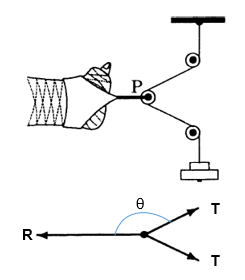
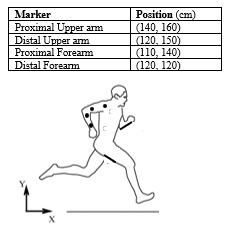
Sync updated problem images and 3D vector parameters

diff --git a/app.js b/app.js
@@ -8,76 +8,72 @@ const PROBLEMS = [
   {
     id: 1,
     title: "Problem 1: 3D Force & Acceleration on a Ball",
-    description: "Determine the total acceleration on a ball (m = 0.05 kg) subjected to three forces (N) as shown in the figure below.",
+    description: "Determine the total acceleration on a ball (m = 0.05 kg) subjected to three forces (N) given by vector components: F₁ = -5î - 30k̂, F₂ = 25î - 10ĵ + 20k̂, and F₃ = -10î + 15ĵ.",
     imageSrc: "images/problem1.png",
     params: [
       { id: "m", label: "Mass (m)", min: 0.01, max: 0.50, step: 0.01, defaultVal: 0.05, unit: "kg", color: "#e2e8f0" },
-      { id: "f1", label: "Force F₁ (Downward)", min: 0.1, max: 5.0, step: 0.1, defaultVal: 0.5, unit: "N", color: "#f43f5e" },
-      { id: "f2", label: "Force F₂ (Up-Right)", min: 0.1, max: 5.0, step: 0.1, defaultVal: 1.2, unit: "N", color: "#38bdf8" },
-      { id: "theta2", label: "F₂ Angle (θ₂)", min: 0, max: 90, step: 1, defaultVal: 30, unit: "°", color: "#38bdf8" },
-      { id: "f3", label: "Force F₃ (Leftward)", min: 0.1, max: 5.0, step: 0.1, defaultVal: 0.8, unit: "N", color: "#f59e0b" }
+      { id: "f1x", label: "F₁ (x component)", min: -30, max: 30, step: 1, defaultVal: -5, unit: "N", color: "#f43f5e" },
+      { id: "f1z", label: "F₁ (z component)", min: -50, max: 50, step: 1, defaultVal: -30, unit: "N", color: "#f43f5e" },
+      { id: "f2x", label: "F₂ (x component)", min: -50, max: 50, step: 1, defaultVal: 25, unit: "N", color: "#38bdf8" },
+      { id: "f2y", label: "F₂ (y component)", min: -50, max: 50, step: 1, defaultVal: -10, unit: "N", color: "#38bdf8" },
+      { id: "f2z", label: "F₂ (z component)", min: -50, max: 50, step: 1, defaultVal: 20, unit: "N", color: "#38bdf8" },
+      { id: "f3x", label: "F₃ (x component)", min: -30, max: 30, step: 1, defaultVal: -10, unit: "N", color: "#f59e0b" },
+      { id: "f3y", label: "F₃ (y component)", min: -30, max: 30, step: 1, defaultVal: 15, unit: "N", color: "#f59e0b" }
     ],
     hintHtml: `
-      <p>💡 <strong>Think of this problem in 3 easy steps:</strong></p>
+      <p>💡 <strong>3D Vector Addition Strategy:</strong></p>
       <div class="beginner-step-box">
-        <strong>Step 1 — Separate forces into Horizontal (y) and Vertical (z) directions:</strong>
+        <strong>Step 1 — Add vector components along each axis (î, ĵ, k̂):</strong>
         <ul style="margin-left: 18px; margin-top: 4px;">
-          <li><strong>F₁</strong> pulls straight <em>down</em> (negative Z axis).</li>
-          <li><strong>F₃</strong> pulls straight <em>left</em> (negative Y axis).</li>
-          <li><strong>F₂</strong> pulls diagonally up and to the right! Break F₂ into a rightward pull (F₂ × cos θ₂) and an upward pull (F₂ × sin θ₂).</li>
+          <li><strong>X-axis (î)</strong>: Fnet_x = F₁x + F₂x + F₃x</li>
+          <li><strong>Y-axis (ĵ)</strong>: Fnet_y = F₁y + F₂y + F₃y</li>
+          <li><strong>Z-axis (k̂)</strong>: Fnet_z = F₁z + F₂z + F₃z</li>
         </ul>
       </div>
       <div class="beginner-step-box">
-        <strong>Step 2 — Combine the total pulls in each direction:</strong>
+        <strong>Step 2 — Calculate total Net Force magnitude:</strong>
         <ul style="margin-left: 18px; margin-top: 4px;">
-          <li>Net Horizontal Pull = (Rightward F₂ pull) − (Leftward F₃ pull)</li>
-          <li>Net Vertical Pull = (Upward F₂ pull) − (Downward F₁ pull)</li>
+          <li>Fnet = √(Fnet_x² + Fnet_y² + Fnet_z²)</li>
         </ul>
       </div>
       <div class="beginner-step-box">
-        <strong>Step 3 — Find total acceleration using Newton's 2nd Law (a = F / m):</strong>
+        <strong>Step 3 — Compute Acceleration (a = Fnet / m):</strong>
         <ul style="margin-left: 18px; margin-top: 4px;">
-          <li>Total Net Force = √(Horizontal Pull² + Vertical Pull²)</li>
-          <li>Acceleration (a) = Total Net Force ÷ Ball Mass (m)</li>
+          <li>a = Net Force ÷ Ball Mass (m)</li>
         </ul>
       </div>
     `,
     computeSolution: (vals) => {
-      const thetaRad = (vals.theta2 * Math.PI) / 180;
-      const f2y = vals.f2 * Math.cos(thetaRad);
-      const f2z = vals.f2 * Math.sin(thetaRad);
+      const Fnet_x = vals.f1x + vals.f2x + vals.f3x;
+      const Fnet_y = vals.f2y + vals.f3y;
+      const Fnet_z = vals.f1z + vals.f2z;
       
-      const Fnet_y = f2y - vals.f3;
-      const Fnet_z = f2z - vals.f1;
-      
-      const Fnet_mag = Math.sqrt(Fnet_y * Fnet_y + Fnet_z * Fnet_z);
+      const Fnet_mag = Math.sqrt(Fnet_x * Fnet_x + Fnet_y * Fnet_y + Fnet_z * Fnet_z);
       const accel_mag = Fnet_mag / vals.m;
-      const angle_deg = (Math.atan2(Fnet_z, Fnet_y) * 180 / Math.PI + 360) % 360;
 
       const stepsHtml = `
         <div class="math-step">
-          <strong>1. Force Components Breakdown:</strong><br>
-          • F₁ = (0.00, -${vals.f1.toFixed(2)}) N<br>
-          • F₂ = (${vals.f2.toFixed(2)} × cos ${vals.theta2}°, ${vals.f2.toFixed(2)} × sin ${vals.theta2}°) = (${f2y.toFixed(2)}, ${f2z.toFixed(2)}) N<br>
-          • F₃ = (-${vals.f3.toFixed(2)}, 0.00) N
+          <strong>1. Vector Component Summation:</strong><br>
+          • Fnet_x = (${vals.f1x}) + (${vals.f2x}) + (${vals.f3x}) = <strong>${Fnet_x.toFixed(2)} N î</strong><br>
+          • Fnet_y = (0) + (${vals.f2y}) + (${vals.f3y}) = <strong>${Fnet_y.toFixed(2)} N ĵ</strong><br>
+          • Fnet_z = (${vals.f1z}) + (${vals.f2z}) + (0) = <strong>${Fnet_z.toFixed(2)} N k̂</strong><br>
+          • Fnet Vector = (${Fnet_x.toFixed(2)}î + ${Fnet_y.toFixed(2)}ĵ + ${Fnet_z.toFixed(2)}k̂) N
         </div>
         <div class="math-step">
-          <strong>2. Net Force Components (Fnet):</strong><br>
-          • Fnet_y = ${f2y.toFixed(2)} - ${vals.f3.toFixed(2)} = <strong>${Fnet_y.toFixed(2)} N</strong><br>
-          • Fnet_z = ${f2z.toFixed(2)} - ${vals.f1.toFixed(2)} = <strong>${Fnet_z.toFixed(2)} N</strong><br>
-          • Fnet Magnitude = √(${Fnet_y.toFixed(2)}² + ${Fnet_z.toFixed(2)}²) = <strong>${Fnet_mag.toFixed(2)} N</strong>
+          <strong>2. Net Force Magnitude:</strong><br>
+          • Fnet = √[(${Fnet_x.toFixed(2)})² + (${Fnet_y.toFixed(2)})² + (${Fnet_z.toFixed(2)})²]<br>
+          • Fnet = √(${ (Fnet_x*Fnet_x + Fnet_y*Fnet_y + Fnet_z*Fnet_z).toFixed(2) }) = <strong>${Fnet_mag.toFixed(2)} N</strong>
         </div>
         <div class="math-step">
           <strong>3. Acceleration (a = Fnet / m):</strong><br>
-          • a = ${Fnet_mag.toFixed(2)} N / ${vals.m.toFixed(2)} kg = <strong>${accel_mag.toFixed(2)} m/s²</strong><br>
-          • Direction Angle = <strong>${angle_deg.toFixed(1)}°</strong> relative to positive horizontal axis
+          • a = ${Fnet_mag.toFixed(2)} N / ${vals.m.toFixed(2)} kg = <strong>${accel_mag.toFixed(2)} m/s²</strong>
         </div>
         <div class="final-answer-box">
-          Total Acceleration (a) = ${accel_mag.toFixed(2)} m/s² @ ${angle_deg.toFixed(1)}°
+          Total Acceleration (a) = ${accel_mag.toFixed(2)} m/s²
         </div>
       `;
 
-      return { Fnet_y, Fnet_z, Fnet_mag, accel_mag, angle_deg, stepsHtml };
+      return { Fnet_x, Fnet_y, Fnet_z, Fnet_mag, accel_mag, stepsHtml };
     },
     renderSvg: (svg, vals, sol, showSol) => {
       let html = drawGridAndAxes(svg, "y (Horizontal)", "z (Vertical)", 400, 300);
@@ -87,18 +83,19 @@ const PROBLEMS = [
         <text x="400" y="304" text-anchor="middle" fill="#ffffff" font-size="12" font-weight="bold">m</text>
       `;
 
-      const scale = 50;
+      const scale = 5;
 
-      const f1_len = vals.f1 * scale;
-      html += drawArrow(400, 300, 400, 300 + f1_len, "#f43f5e", `F₁ = ${vals.f1.toFixed(1)}N`);
+      const f1_y = 300 - vals.f1z * scale;
+      const f1_x = 400 + vals.f1x * scale;
+      html += drawArrow(400, 300, f1_x, f1_y, "#f43f5e", `F₁`);
 
-      const rad = (vals.theta2 * Math.PI) / 180;
-      const f2_x = 400 + (vals.f2 * scale) * Math.cos(rad);
-      const f2_y = 300 - (vals.f2 * scale) * Math.sin(rad);
-      html += drawArrow(400, 300, f2_x, f2_y, "#38bdf8", `F₂ = ${vals.f2.toFixed(1)}N (${vals.theta2}°)`);
+      const f2_x = 400 + vals.f2y * scale;
+      const f2_y = 300 - vals.f2z * scale;
+      html += drawArrow(400, 300, f2_x, f2_y, "#38bdf8", `F₂`);
 
-      const f3_len = vals.f3 * scale;
-      html += drawArrow(400, 300, 400 - f3_len, 300, "#f59e0b", `F₃ = ${vals.f3.toFixed(1)}N`);
+      const f3_x = 400 + vals.f3y * scale;
+      const f3_y = 300;
+      html += drawArrow(400, 300, f3_x, f3_y, "#f59e0b", `F₃`);
 
       if (showSol) {
         const net_x = 400 + sol.Fnet_y * scale;
@@ -107,12 +104,12 @@ const PROBLEMS = [
         html += `<line x1="400" y1="300" x2="${net_x}" y2="300" stroke="#10b981" stroke-dasharray="4" stroke-width="1.5" />`;
         html += `<line x1="${net_x}" y1="300" x2="${net_x}" y2="${net_y}" stroke="#10b981" stroke-dasharray="4" stroke-width="1.5" />`;
 
-        html += drawArrow(400, 300, net_x, net_y, "#10b981", `F_net = ${sol.Fnet_mag.toFixed(2)}N`, 3);
+        html += drawArrow(400, 300, net_x, net_y, "#10b981", `F_net = ${sol.Fnet_mag.toFixed(1)}N`, 3);
 
         html += `
           <g transform="translate(${net_x + 15}, ${net_y - 15})">
-            <rect x="0" y="0" width="160" height="32" rx="6" fill="#065f46" opacity="0.9" stroke="#34d399" stroke-width="1"/>
-            <text x="80" y="20" text-anchor="middle" fill="#6ee7b7" font-size="12" font-weight="bold">a = ${sol.accel_mag.toFixed(2)} m/s²</text>
+            <rect x="0" y="0" width="170" height="32" rx="6" fill="#065f46" opacity="0.9" stroke="#34d399" stroke-width="1"/>
+            <text x="85" y="20" text-anchor="middle" fill="#6ee7b7" font-size="12" font-weight="bold">a = ${sol.accel_mag.toFixed(2)} m/s²</text>
           </g>
         `;
       }
@@ -762,23 +759,19 @@ function loadProblem(index) {
   currentProblemIndex = index;
   const prob = PROBLEMS[index];
 
-  // Update UI Text & Image
   problemTag.textContent = `Problem ${prob.id} of 6`;
   problemTitle.textContent = prob.title;
   problemDescription.textContent = prob.description;
   problemImage.src = prob.imageSrc;
   currentProblemNum.textContent = prob.id;
 
-  // Update Pills Active State
   document.querySelectorAll('.pill-btn').forEach((btn, idx) => {
     btn.classList.toggle('active', idx === index);
   });
 
-  // Update Pagination Buttons
   prevProblemBtn.disabled = index === 0;
   nextProblemBtn.disabled = index === PROBLEMS.length - 1;
 
-  // Reset Visibility States
   isHintVisible = false;
   isSolutionVisible = false;
   hintCard.classList.add('hidden');
@@ -786,13 +779,11 @@ function loadProblem(index) {
   hintBtnText.textContent = "Show Beginner Hint";
   solutionBtnText.textContent = "Show Solution & Answer";
 
-  // Load Default Slider Values
   currentValues = {};
   prob.params.forEach(param => {
     currentValues[param.id] = param.defaultVal;
   });
 
-  // Render Sliders & Canvas
   renderSliders();
   hintContent.innerHTML = prob.hintHtml;
   updateView();
